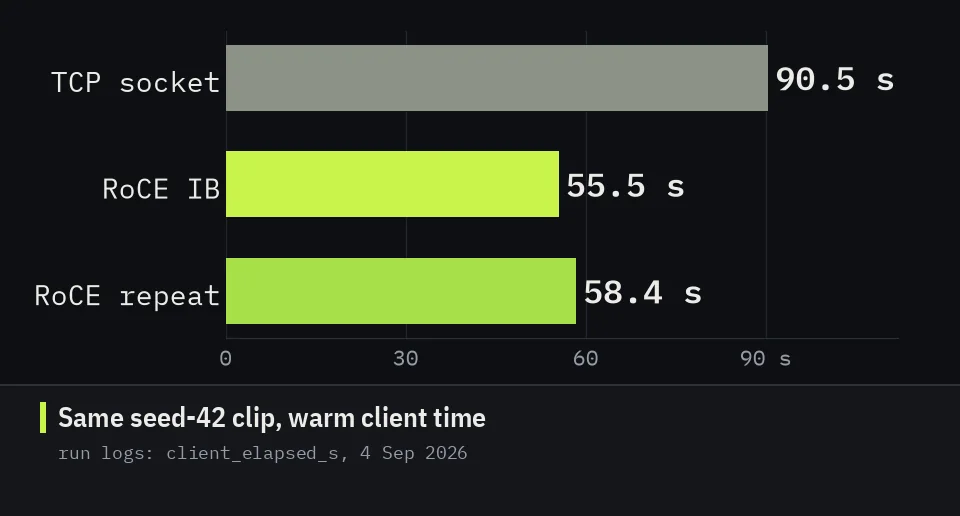
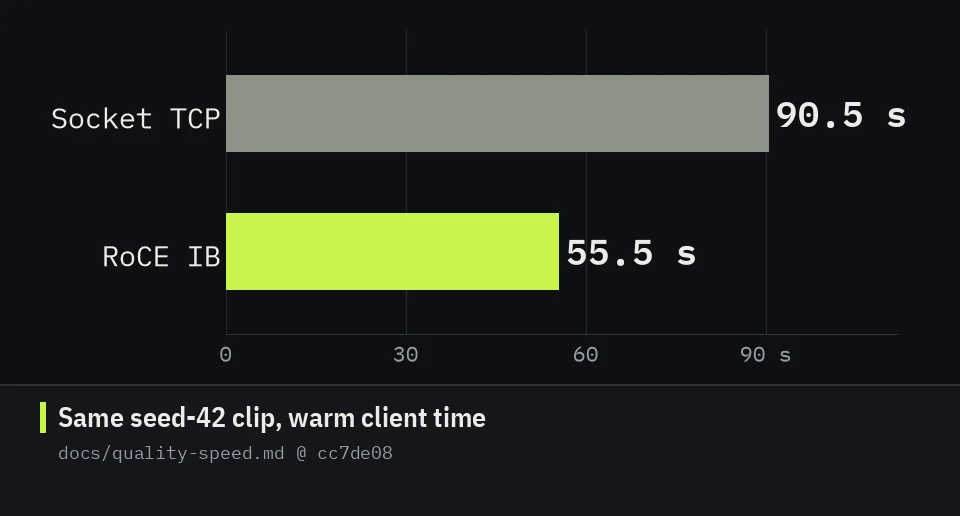
Thumbnails: soft fixes from review. (#8)
- MiniMax: chart now shows only the two numbers in the committed
  docs/quality-speed.md (Socket TCP 90.5 s vs RoCE IB 55.5 s). The
  92.3 s TCP repeat is only in the run logs, not the doc, so the
  RoCE repeat bar is dropped too. Caption source points at the doc.
- stl-sandbox: crop stops after "ACCEPT · Grade A"; the summary line
  claiming all mesh integrity gates passed is no longer shown (the
  certificate lists triangle_quality as failed).
- miaai35-tune, zwell-bench: jq commands break after the filter with
  a backslash continuation instead of wrapping mid-filename. Output
  re-run with the displayed commands and is byte-identical.
- secom alt text names the purple dotted line: the textbook
  parametric (F-distribution) 99% T² limit from secom/report.py.

diff --git a/index.html b/index.html
@@ -198,7 +198,7 @@
 
         <article class="card">
           <a class="card-top" href="https://github.com/Coinupbtc/MiniMax-H3-2x-DGX-Spark" aria-label="MiniMax-H3-2x-DGX-Spark on GitHub">
-            <img class="card-img" src="assets/projects/minimax-h3-2x-dgx-spark.webp" alt="Bar chart from the run logs: the same seed-42 clip took 90.5 s over TCP socket, 55.5 s over RoCE InfiniBand, and 58.4 s on the RoCE repeat" width="960" height="516" loading="lazy" decoding="async">
+            <img class="card-img" src="assets/projects/minimax-h3-2x-dgx-spark.webp" alt="Bar chart from the committed quality-speed doc: the same seed-42 clip took 90.5 s warm over Socket TCP and 55.5 s over RoCE InfiniBand on two Sparks" width="960" height="516" loading="lazy" decoding="async">
             <span class="card-num" aria-hidden="true"><b>55.5</b> s<small>RoCE, was 90.5 s</small></span>
           </a>
           <div class="card-body">
@@ -209,7 +209,7 @@
 
         <article class="card">
           <a class="card-top" href="https://github.com/Coinupbtc/stl-sandbox" aria-label="stl-sandbox on GitHub">
-            <img class="card-img" src="assets/projects/stl-sandbox.webp" alt="stl-sandbox viewer: an M10 hex nut built on the template path (no LLM), next to its ISO 2768-m inspection panel reading ACCEPT, Grade A" width="960" height="516" loading="lazy" decoding="async">
+            <img class="card-img" src="assets/projects/stl-sandbox.webp" alt="stl-sandbox viewer: an M10 hex nut built on the template path (no LLM), next to the header of its ISO 2768-m inspection panel reading ACCEPT, Grade A" width="960" height="516" loading="lazy" decoding="async">
             <span class="card-num" aria-hidden="true"><b>STL + STEP</b><small>local</small></span>
           </a>
           <div class="card-body">
@@ -231,7 +231,7 @@
 
         <article class="card">
           <a class="card-top" href="https://github.com/Coinupbtc/secom-spc-vs-ai" aria-label="secom-spc-vs-ai on GitHub">
-            <img class="card-img" src="assets/projects/secom-spc-vs-ai.webp" alt="Committed T² control chart cropped to the 627-run time-ordered test block: all 28 failed runs, marked with red crosses, sit under the dashed 1% alarm limit" width="960" height="516" loading="lazy" decoding="async">
+            <img class="card-img" src="assets/projects/secom-spc-vs-ai.webp" alt="Committed T² control chart cropped to the 627-run time-ordered test block: all 28 failed runs, marked with red crosses, sit under the dashed 1% alarm limit set on Phase I data. The purple dotted line is the textbook parametric (F-distribution) 99% limit, which 579 of the 627 runs exceed" width="960" height="516" loading="lazy" decoding="async">
             <span class="card-num" aria-hidden="true"><b>0/28</b><small>T&#178; and SPE, 1% FAR</small></span>
           </a>
           <div class="card-body">
